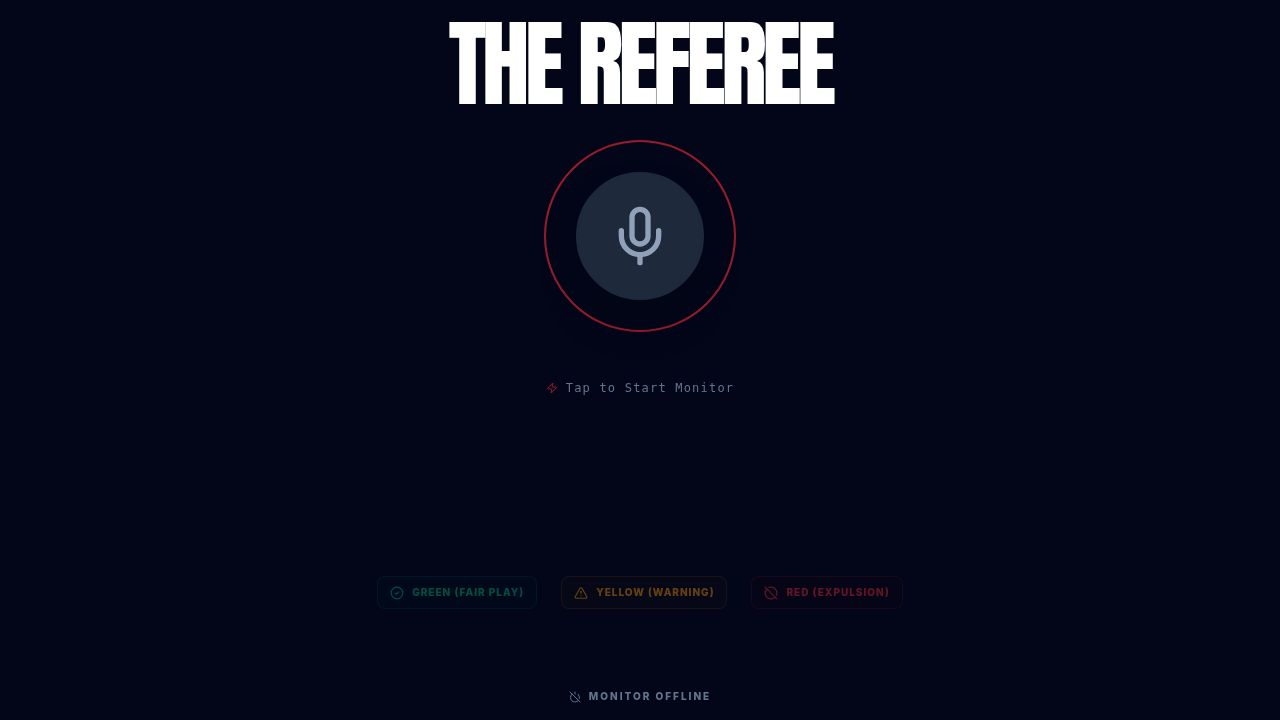
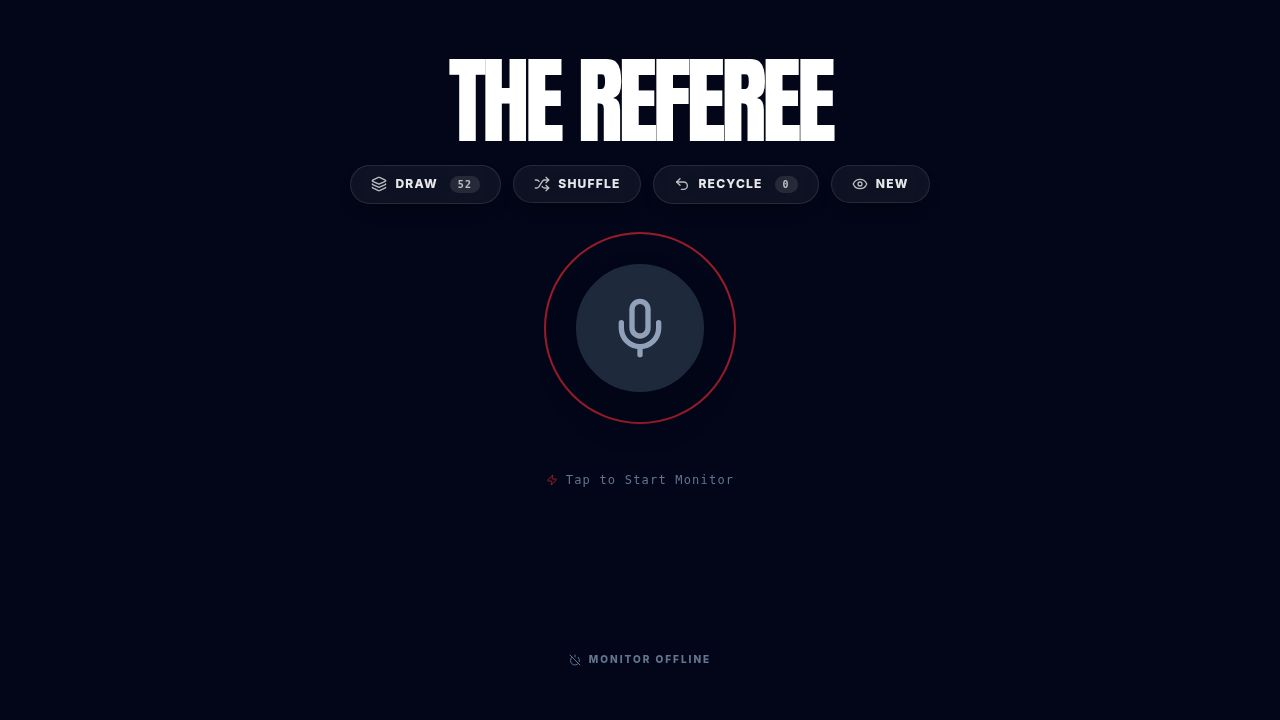
Add interactive card simulation with draw, shuffle, and recycle functions
Introduce a card simulation feature with state management for deck, pile, and active card. Includes functions for drawing, shuffling, recycling, and resetting the deck.

Replit-Commit-Author: Agent
Replit-Commit-Session-Id: 53617c9e-60d3-48a3-abc7-e99f28ae8477
Replit-Commit-Checkpoint-Type: full_checkpoint
Replit-Commit-Event-Id: 284b1fea-627b-4f21-ace5-7a3151dbbd50
Replit-Commit-Screenshot-Url: https://storage.googleapis.com/screenshot-production-us-central1/e18f1a6d-9cce-4801-b7d0-e041ac82768c/53617c9e-60d3-48a3-abc7-e99f28ae8477/UKuEtz8
Replit-Helium-Checkpoint-Created: true

diff --git a/client/src/pages/home.tsx b/client/src/pages/home.tsx
@@ -1,6 +1,21 @@
-import { useState, useEffect, useRef } from "react";
+import { useMemo, useState, useEffect, useRef } from "react";
 import { motion, AnimatePresence } from "framer-motion";
-import { Mic, AlertTriangle, RefreshCw, Flag, ShieldAlert, Zap, Waves, CheckCircle2, CircleOff, PowerOff, StopCircle, History, Fingerprint } from "lucide-react";
+import {
+  Mic,
+  AlertTriangle,
+  RefreshCw,
+  Zap,
+  Waves,
+  CheckCircle2,
+  CircleOff,
+  PowerOff,
+  History,
+  Fingerprint,
+  Layers,
+  Shuffle,
+  Undo2,
+  Eye,
+} from "lucide-react";
 import { useToast } from "@/hooks/use-toast";
 
 const ANALYSIS_MAP = {
@@ -36,6 +51,55 @@ interface Incident {
   reason: string;
 }
 
+type Suit = "♠" | "♥" | "♦" | "♣";
+
+type Rank =
+  | "A"
+  | "2"
+  | "3"
+  | "4"
+  | "5"
+  | "6"
+  | "7"
+  | "8"
+  | "9"
+  | "10"
+  | "J"
+  | "Q"
+  | "K";
+
+type PlayingCard = {
+  id: string;
+  suit: Suit;
+  rank: Rank;
+};
+
+const SUITS: Suit[] = ["♠", "♥", "♦", "♣"];
+const RANKS: Rank[] = ["A", "2", "3", "4", "5", "6", "7", "8", "9", "10", "J", "Q", "K"];
+
+function createDeck(): PlayingCard[] {
+  const deck: PlayingCard[] = [];
+  for (const suit of SUITS) {
+    for (const rank of RANKS) {
+      deck.push({ id: `${rank}${suit}`, suit, rank });
+    }
+  }
+  return deck;
+}
+
+function shuffle<T>(arr: T[]): T[] {
+  const a = [...arr];
+  for (let i = a.length - 1; i > 0; i--) {
+    const j = Math.floor(Math.random() * (i + 1));
+    [a[i], a[j]] = [a[j], a[i]];
+  }
+  return a;
+}
+
+function isRedSuit(suit: Suit) {
+  return suit === "♥" || suit === "♦";
+}
+
 export default function Home() {
   const [isListening, setIsListening] = useState(false);
   const [transcript, setTranscript] = useState("");
@@ -43,6 +107,11 @@ export default function Home() {
   const [showShame, setShowShame] = useState(false);
   const [history, setHistory] = useState<Incident[]>([]);
   const [isScanning, setIsScanning] = useState(false);
+
+  const [deck, setDeck] = useState<PlayingCard[]>(() => shuffle(createDeck()));
+  const [pile, setPile] = useState<PlayingCard[]>([]);
+  const [activeCard, setActiveCard] = useState<PlayingCard | null>(null);
+
   const { toast } = useToast();
 
   const SpeechRecognition =
@@ -225,11 +294,56 @@ export default function Home() {
     lastInterimRef.current = "";
   };
 
+  const deckCount = deck.length;
+  const pileCount = pile.length;
+
   const getBgColor = () => {
     if (penalty === "RED" || penalty === "DOG_WHISTLE") return "bg-red-950";
     if (penalty === "YELLOW") return "bg-amber-950";
     if (penalty === "GREEN") return "bg-emerald-950";
     return "bg-slate-950";
+  };
+
+  const drawCard = () => {
+    setDeck((prev) => {
+      if (prev.length === 0) {
+        toast({
+          title: "Deck empty",
+          description: "Shuffle the pile back in to keep going.",
+        });
+        return prev;
+      }
+      const [top, ...rest] = prev;
+      setActiveCard(top);
+      setPile((p) => [top, ...p]);
+      return rest;
+    });
+  };
+
+  const shuffleDeck = () => {
+    setDeck((prev) => shuffle(prev));
+    toast({ title: "Shuffled", description: "Deck order randomized." });
+  };
+
+  const recyclePileIntoDeck = () => {
+    setDeck((prevDeck) => {
+      if (pile.length === 0) {
+        toast({ title: "Pile empty", description: "Draw some cards first." });
+        return prevDeck;
+      }
+      const next = shuffle([...prevDeck, ...pile]);
+      return next;
+    });
+    setPile([]);
+    setActiveCard(null);
+    toast({ title: "Recycled", description: "Pile shuffled back into the deck." });
+  };
+
+  const resetCards = () => {
+    setDeck(shuffle(createDeck()));
+    setPile([]);
+    setActiveCard(null);
+    toast({ title: "New deck", description: "Fresh 52-card deck ready." });
   };
 
   return (
@@ -246,9 +360,68 @@ export default function Home() {
 
       <div className="z-10 w-full max-w-xl mx-auto text-center space-y-12">
         <div className="space-y-4">
-          <motion.div initial={{ opacity: 0, y: -20 }} animate={{ opacity: 1, y: 0 }} className="font-display text-7xl md:text-8xl tracking-tighter uppercase transition-colors duration-500">
-            {penalty === "RED" || penalty === "DOG_WHISTLE" ? "EXPELLED" : penalty === "YELLOW" ? "WARNED" : penalty === "GREEN" ? "FAIR PLAY" : "The Referee"}
+          <motion.div
+            initial={{ opacity: 0, y: -20 }}
+            animate={{ opacity: 1, y: 0 }}
+            className="font-display text-7xl md:text-8xl tracking-tighter uppercase transition-colors duration-500"
+            data-testid="text-title"
+          >
+            {penalty === "RED" || penalty === "DOG_WHISTLE"
+              ? "EXPELLED"
+              : penalty === "YELLOW"
+                ? "WARNED"
+                : penalty === "GREEN"
+                  ? "FAIR PLAY"
+                  : "The Referee"}
           </motion.div>
+
+          <div className="flex items-center justify-center gap-3" data-testid="panel-card-controls">
+            <button
+              type="button"
+              onClick={drawCard}
+              className="group inline-flex items-center justify-center gap-2 rounded-full border border-white/10 bg-white/5 px-5 py-2.5 text-xs font-black uppercase tracking-widest text-white/90 shadow-lg shadow-black/20 backdrop-blur-xl transition-all hover:bg-white/10 hover:shadow-xl active:scale-[0.98]"
+              data-testid="button-draw-card"
+            >
+              <Layers className="h-4 w-4 opacity-80 transition-opacity group-hover:opacity-100" />
+              Draw
+              <span className="ml-1 rounded-full bg-white/10 px-2 py-0.5 font-mono text-[10px] text-white/70" data-testid="text-deck-count">
+                {deckCount}
+              </span>
+            </button>
+
+            <button
+              type="button"
+              onClick={shuffleDeck}
+              className="group inline-flex items-center justify-center gap-2 rounded-full border border-white/10 bg-white/5 px-5 py-2.5 text-xs font-black uppercase tracking-widest text-white/90 shadow-lg shadow-black/20 backdrop-blur-xl transition-all hover:bg-white/10 hover:shadow-xl active:scale-[0.98]"
+              data-testid="button-shuffle-deck"
+            >
+              <Shuffle className="h-4 w-4 opacity-80 transition-opacity group-hover:opacity-100" />
+              Shuffle
+            </button>
+
+            <button
+              type="button"
+              onClick={recyclePileIntoDeck}
+              className="group inline-flex items-center justify-center gap-2 rounded-full border border-white/10 bg-white/5 px-5 py-2.5 text-xs font-black uppercase tracking-widest text-white/90 shadow-lg shadow-black/20 backdrop-blur-xl transition-all hover:bg-white/10 hover:shadow-xl active:scale-[0.98]"
+              data-testid="button-recycle-pile"
+            >
+              <Undo2 className="h-4 w-4 opacity-80 transition-opacity group-hover:opacity-100" />
+              Recycle
+              <span className="ml-1 rounded-full bg-white/10 px-2 py-0.5 font-mono text-[10px] text-white/70" data-testid="text-pile-count">
+                {pileCount}
+              </span>
+            </button>
+
+            <button
+              type="button"
+              onClick={resetCards}
+              className="group inline-flex items-center justify-center gap-2 rounded-full border border-white/10 bg-white/5 px-5 py-2.5 text-xs font-black uppercase tracking-widest text-white/90 shadow-lg shadow-black/20 backdrop-blur-xl transition-all hover:bg-white/10 hover:shadow-xl active:scale-[0.98]"
+              data-testid="button-reset-cards"
+            >
+              <Eye className="h-4 w-4 opacity-80 transition-opacity group-hover:opacity-100" />
+              New
+            </button>
+          </div>
         </div>
 
         <div className="relative h-80 flex items-center justify-center">
